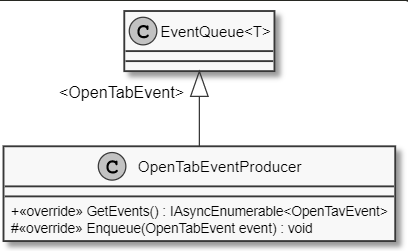
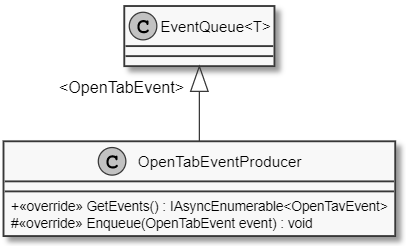
Edit OpenTabEventProducer class diagram. Fix formatting. Delete inherited attributes from classes definition

Changed region(s): [[0.0, 0.0, 1.0, 0.9675]]

diff --git a/documents/sd/chapter/Classes/Modules/WebBrowser/WebBrowser.tex b/documents/sd/chapter/Classes/Modules/WebBrowser/WebBrowser.tex
@@ -33,7 +33,6 @@
     \clsdsp{A button click user interaction}
 
     \begin{attributes}
-    	\attribute{Attributes inherited from WebbrowserEvent}
         \attribute{public string Button}{The title of the button item that was clicked on the website}
         \attribute{public Uri URL}{The URL of the website that the button is linked to}
     \end{attributes}
@@ -46,9 +45,6 @@
 
     \clsdsp{A close tab user interaction}
 
-    \begin{attributes}
-        \attribute{Only from WebBrowserEvent inherited attributes}
-    \end{attributes}
 \end{class}
 
 \begin{class}{FileDownloadEvent} 
@@ -59,7 +55,6 @@
     \clsdsp{A file download user interaction}
 
     \begin{attributes}
-    	\attribute{Attributes inherited from WebbrowserEvent}
         \attribute{public string MIMEType}{MIME type of the file that was downloaded}
         \attribute{public Uri FileURL}{The URL of the file that was downloaded}
     \end{attributes}
@@ -73,7 +68,6 @@
     \clsdsp{A hover user interaction}
 
     \begin{attributes}
-    	\attribute{Attributes inherited from WebbrowserEvent}
         \attribute{public string HoverElement}{The element on the website that has been hovered}
     \end{attributes}
 \end{class}
@@ -85,9 +79,6 @@
 
     \clsdsp{A navigation user interaction}
 
-    \begin{attributes}
-    	\attribute{Only from WebbrowserEvent inherited attributes}
-    \end{attributes}
 \end{class}
 
 \begin{class}{OpenTabEvent} 
@@ -97,9 +88,6 @@
 
     \clsdsp{An open tab user interaction}
 
-    \begin{attributes}
-    	\attribute{Only from WebbrowserEvent inherited attributes}
-    \end{attributes}
 \end{class}
 
 \begin{class}{SwitchTabEvent} 
@@ -110,7 +98,6 @@
     \clsdsp{A switch tab user interaction}
 
     \begin{attributes}
-    	\attribute{Attributes inherited from WebbrowserEvent}
         \attribute{public Guid NewTabID}{The identifier of the tab that the user switched to}
     \end{attributes}
 \end{class}
@@ -123,7 +110,6 @@
     \clsdsp{A text input user interaction}
 
     \begin{attributes}
-    	\attribute{Attributes inherited from WebbrowserEvent}
         \attribute{public string InputtedText}{The text that was inputted by the user on the website}
         \attribute{public string Textbox}{The textbox where the text was inputted in}
     \end{attributes}
@@ -137,7 +123,6 @@
     \clsdsp{A text selection user interaction}
 
     \begin{attributes}
-    	\attribute{Attributes inherited from WebbrowserEvent}
         \attribute{public string SelectedText}{The text that was selected on the website}
     \end{attributes}
 \end{class}
@@ -174,7 +159,7 @@
         \begin{method}{public override IAsyncEnumerable<CloseTabEvent> GetEvents()}{Asynchronously gets all close tab events}
           \return{IAsyncEnumerable<CloseTabEvent>}{A stream of CloseTabEvent}
         \end{method}
-        \begin{method}{ protected override void Enqueue(CloseTabEvent event)}{Asynchronously enqueues a new close tab event}
+        \begin{method}{protected override void Enqueue(CloseTabEvent event)}{Asynchronously enqueues a new close tab event}
             \begin{parameters}
                 \para{CloseTabEvent event}{CloseTabEvent event}
             \end{parameters}
@@ -193,7 +178,7 @@
         \begin{method}{public override IAsyncEnumerable<FileDownloadEvent> GetEvents()}{Asynchronously gets all file download events}
           \return{IAsyncEnumerable<FileDownloadEvent>}{A stream of FileDownloadEvent}
         \end{method}
-        \begin{method}{ protected override void Enqueue(FileDownloadEvent event)}{Asynchronously enqueues a new file download event}
+        \begin{method}{protected override void Enqueue(FileDownloadEvent event)}{Asynchronously enqueues a new file download event}
             \begin{parameters}
                 \para{FileDownloadEvent event}{FileDownloadEvent event}
             \end{parameters}
@@ -212,7 +197,7 @@
         \begin{method}{public override IAsyncEnumerable<HoverEvent> GetEvents()}{Asynchronously gets all hover events}
           \return{IAsyncEnumerable<HoverEvent>}{A stream of HoverEvent}
         \end{method}
-        \begin{method}{ protected override void Enqueue(HoverEvent event)}{Asynchronously enqueues a new hover event}
+        \begin{method}{protected override void Enqueue(HoverEvent event)}{Asynchronously enqueues a new hover event}
             \begin{parameters}
                 \para{HoverEvent event}{HoverEvent event}
             \end{parameters}
@@ -231,7 +216,7 @@
         \begin{method}{public override IAsyncEnumerable<NavigationEvent> GetEvents()}{Asynchronously gets all navigation events}
           \return{IAsyncEnumerable<NavigationEvent>}{A stream of NavigationEvent}
         \end{method}
-        \begin{method}{ protected override void Enqueue(NavigationEvent event)}{Asynchronously enqueues a new navigation event}
+        \begin{method}{protected override void Enqueue(NavigationEvent event)}{Asynchronously enqueues a new navigation event}
             \begin{parameters}
                 \para{NavigationEvent event}{NavigationEvent event}
             \end{parameters}
@@ -250,7 +235,7 @@
         \begin{method}{public override IAsyncEnumerable<OpenTabEvent> GetEvents()}{Asynchronously gets all open tab events}
           \return{IAsyncEnumerable<OpenTabEvent>}{A stream of OpenTabEvent}
         \end{method}
-        \begin{method}{ protected override void Enqueue(OpenTabEvent event)}{Asynchronously enqueues a new open tab event}
+        \begin{method}{protected override void Enqueue(OpenTabEvent event)}{Asynchronously enqueues a new open tab event}
             \begin{parameters}
                 \para{OpenTabEvent event}{OpenTabEvent event}
             \end{parameters}
@@ -269,7 +254,7 @@
         \begin{method}{public override IAsyncEnumerable<SwitchTabEvent> GetEvents()}{Asynchronously gets all switch tab events}
           \return{IAsyncEnumerable<SwitchTabEvent>}{A stream of SwitchTabEvent}
         \end{method}
-        \begin{method}{ protected override void Enqueue(SwitchTabEvent event)}{Asynchronously enqueues a new switch tab event}
+        \begin{method}{protected override void Enqueue(SwitchTabEvent event)}{Asynchronously enqueues a new switch tab event}
             \begin{parameters}
                 \para{SwitcTabEvent event}{SwitchTabEvent event}
             \end{parameters}
@@ -288,7 +273,7 @@
         \begin{method}{public override IAsyncEnumerable<TextInputEvent> GetEvents()}{Asynchronously gets all text input events}
           \return{IAsyncEnumerable<TextInputEvent>}{A stream of TextInputEvent}
         \end{method}
-        \begin{method}{ protected override void Enqueue(TextInputEvent event)}{Asynchronously enqueues a new text input event}
+        \begin{method}{protected override void Enqueue(TextInputEvent event)}{Asynchronously enqueues a new text input event}
             \begin{parameters}
                 \para{TextInputEvent event}{TextInputEvent event}
             \end{parameters}
@@ -307,7 +292,7 @@
         \begin{method}{public override IAsyncEnumerable<TextSelectionEvent> GetEvents()}{Asynchronously gets all text selection events}
           \return{IAsyncEnumerable<TextSelectionEvent>}{A stream of TextSelectionEvent}
         \end{method}
-        \begin{method}{ protected override void Enqueue(TextSelectionEvent event)}{Asynchronously enqueues a new text selection event}
+        \begin{method}{protected override void Enqueue(TextSelectionEvent event)}{Asynchronously enqueues a new text selection event}
             \begin{parameters}
                 \para{TextSelectionEvent event}{TextSelectionEvent event}
             \end{parameters}
